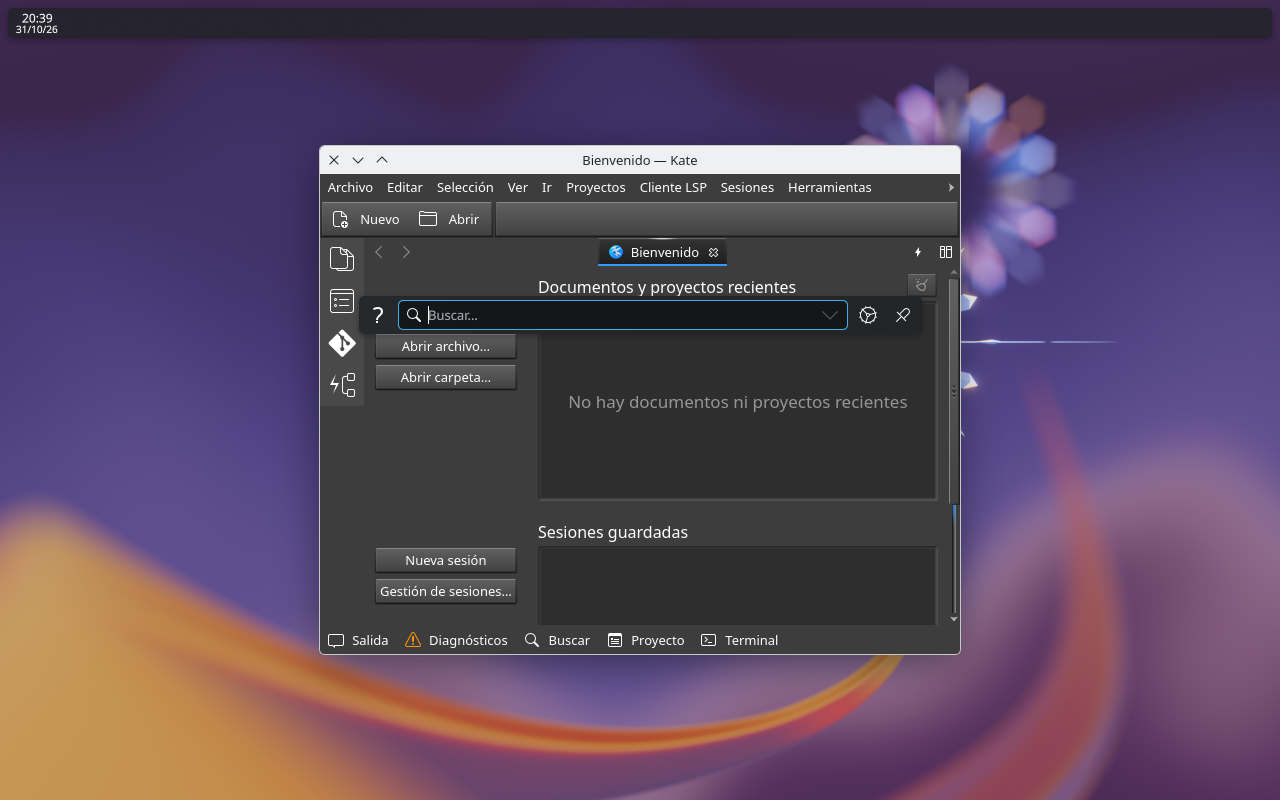
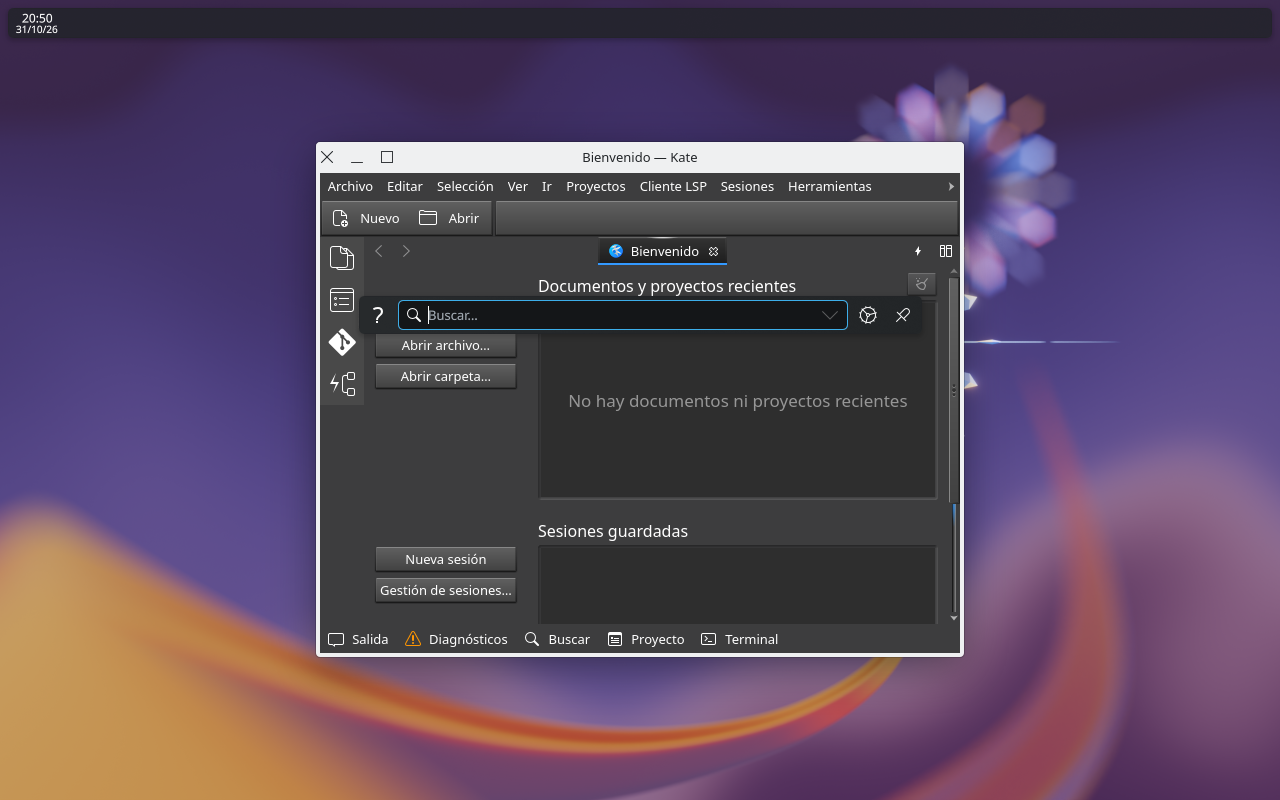
feat(F3/F4): Klassy nested

diff --git a/docs/plans/evidence/F3-T02-nested.md b/docs/plans/evidence/F3-T02-nested.md
@@ -1,0 +1,38 @@
+# F3-T02 nested — Klassy cargado en KWin anidado
+
+Fecha: 2026-10-31. Plugin (solo lectura):
+`/tmp/klassy-prefix/lib/plugins/org.kde.kdecoration3/org.kde.klassy.so`
+(+ `libklassycommon6.so.6.7.3`). Harness: flag nuevo `--klassy`
+(`QT_PLUGIN_PATH`+`LD_LIBRARY_PATH`+`XDG_DATA_DIRS` al prefix,
+`kwinrc [org.kde.kdecoration2] library=org.kde.klassy`, XIA, kate+konsole).
+Comando: `nested-plasma.sh --out spikes/nested --timeout 60 --klassy
+--home /tmp/opencode/f3homeN`. 3 runs, 4/4 VIVO, cleanup limpio.
+
+## Plugin CARGADO
+
+`supportInformation` (bus anidado): `Plugin: org.kde.klassy`. KWin no
+crashea. Titlebar renderizada por Klassy: 30 px (y70–99 @1x, kate izquierda).
+
+## Geometría por scripting: SÍ funciona
+
+`--qwindowgeometry` lo ignora el shell; en su lugar `kwin-layout.js`
+(`frameGeometry`, vía `/Scripting loadScript+start`): kate 10..626,
+konsole 650..1270 medidos por bordes (pedidos 620+10 / 620+650). Flip de
+foco con `kwin-focus-toggle.js` (`workspace.activeWindow`). Los .js quedan
+generados en `spikes/nested/` (no commiteados). Sin ydotool: este es el
+canal de foco/hover del harness.
+
+## Medidas vs contrato (PIL, `f3-klassy-active.png`)
+
+| Ítem | Contrato | Medido | Estado |
+|---|---|---|---|
+| titlebar | — | 30 px | ref |
+| orden | XIA izq | XIA izq | OK |
+| offset borde→btn1 | 8–9 px | ~8 px (borde x6–10, glifo desde x14) | OK~ |
+| gap | 8 px | no uniforme (shape default ancho) | NO |
+| semáforo Ø | 12 px | glifo ~10 px, sin círculos | NO |
+| colores | R/A/V | monocromo | NO (→F4-T01) |
+
+Capturas: `f3-klassy-active.png` (kate activa), `f3-klassy-inactive.png`
+(konsole activa). Activo/inactivo casi indistinguibles: default Klassy
+`LockButtonColorsActiveInactive=true`.

diff --git a/docs/plans/evidence/F4-T01-nested.md b/docs/plans/evidence/F4-T01-nested.md
@@ -1,0 +1,30 @@
+# F4-T01 nested — skin semáforos Klassy (PENDIENTE canal config)
+
+Fecha: 2026-10-31. Parte de `f3-klassy-active/inactive.png` (F3-T02):
+deco Klassy carga pero dibuja botones estilo Breeze monocromo
+(X _ □, sin círculos ni R/A/V). Foco flip OK por scripting; hover físico
+pendiente (sin inyección de puntero en nested).
+
+## Claves reales probadas (de `klassy-decoration.kcfg`, sin inventar)
+
+`klassy/klassyrc`: `[Windeco] ButtonShape=ShapeSmallCircle`,
+`[ButtonSizing] ButtonSpacingLeft=8`. Resultado: SIN efecto —
+mismo mapa de glifos antes/después; `spacing 8→20` + `/KWin reconfigure`
+tampoco cambia nada.
+
+## Causa (evidencia, no especulación)
+
+- El `.so` de la deco NO contiene `ShapeSmallCircle` ni `klassyrc`
+  (`strings`); solo `libklassycommon` referencia `buttonShape`/`Windeco Presets`.
+- Klassy escribe en nuestro `klassyrc` (`[Global] LookAndFeelSet` añadido
+  en primer arranque = importa preset bundled) pero ignora nuestras claves
+  tanto pre-seed como en runtime.
+- Hipótesis: el preset bundled pisa la config, o la 6.7.3 exige el path
+  del KCM (`kcm_klassydecoration`, `klassysettings`) para aplicar. Sin
+  instrumentar el KCM no se distingue; NO se toca `/tmp/klassy-prefix`.
+
+## Siguiente paso (no en este commit)
+
+Probar `klassysettings --apply` / D-Bus del KCM dentro del nested, o volcar
+el `klassyrc` que genera el KCM en host de referencia (lectura) y
+replicar claves exactas. Hasta entonces: gap abierto, deco base OK.
